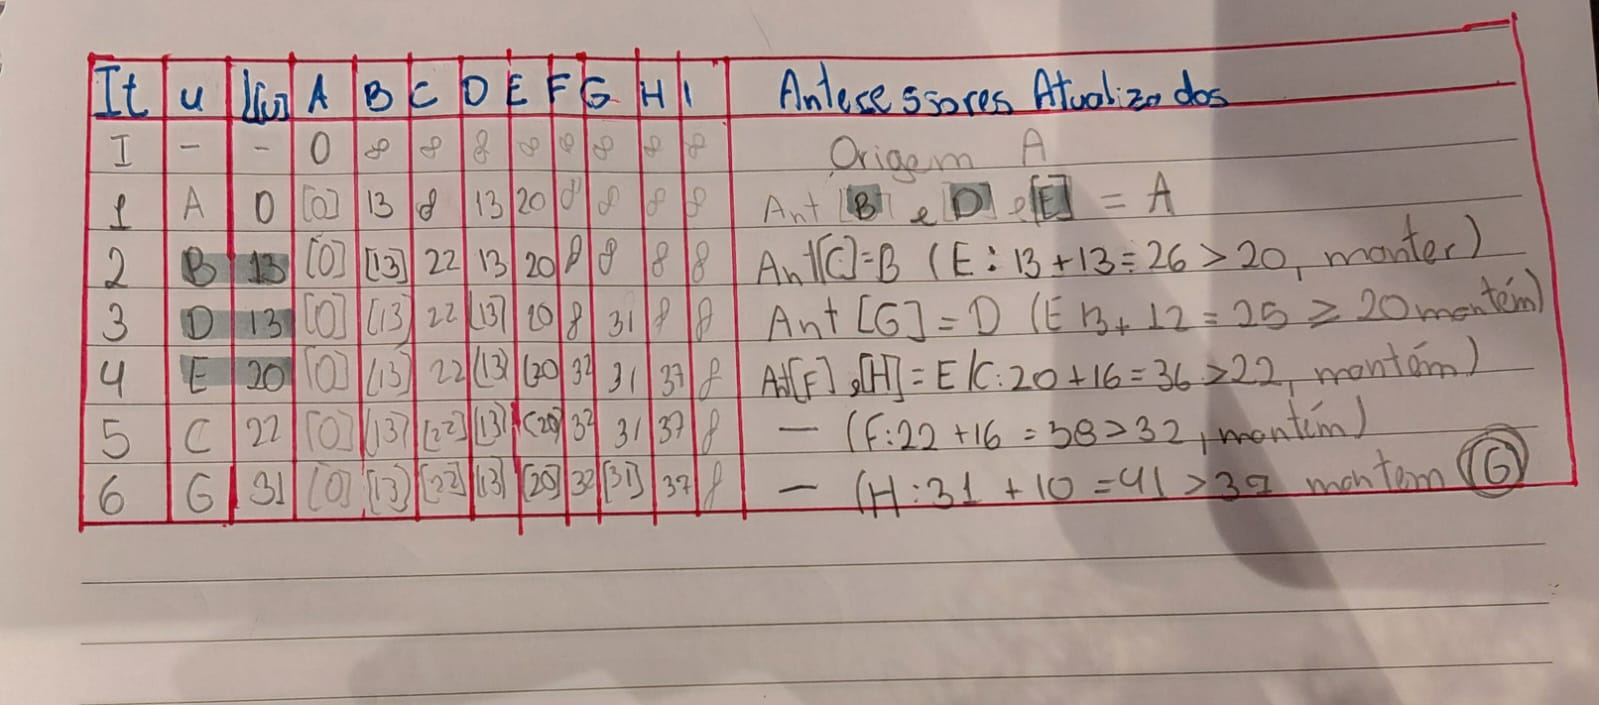
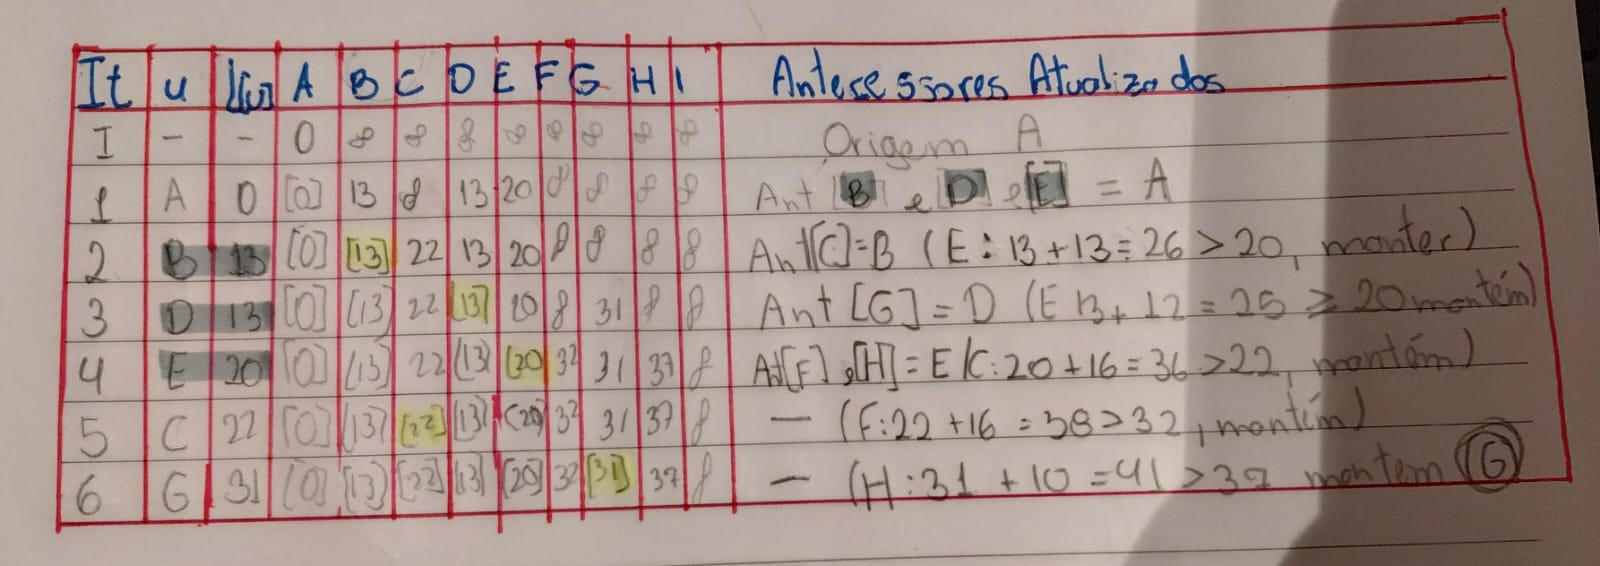
Adiciona a parte 2 completa

diff --git a/README.md b/README.md
@@ -38,7 +38,7 @@ de todos os vértices e os antecessores atualizados, até fechar o destino. Valo
 Realizado no papel:
 ![alt text](img/djkstra.png)
 
-Obs: na linha 2 também podeia ser D (invertido B com D) mas ia ficar muito fora da ordem alfabeticaimg/print_i.png
+Obs: na linha 2 também podeia ser D (invertido B com D) mas ia ficar muito fora da ordem alfabetica
 
 2) **Execução no simulador:** rode o Dijkstra passo a passo com origem A e o seu destino. Anexe dois prints: (i) o momento em que o terceiro vértice é fixado; (ii) o estado final, com a tabela “Estado dos vértices” e o caminho até o destino 
 
@@ -59,3 +59,30 @@ No final ambos ficam A -> D -> G
 
 
 3) *Registro das relaxações:* escolha a iteração k = (D4 mod 3) + 3. Para cada vizinho xaminado nessa iteração, escreva a conta dist[u] + W[u][v], compare com dist[v] e diga se houve relaxação ou se o valor foi mantido. Explique, com base na linha 6 do pseudocódigo do simulador, por que os vizinhos já fixos não são examinados. Se o destino for fechado antes da iteração k, continue a execução até ela. 
+
+* k = (D4mod3) + 3 = (2mod3) + 3 = 2 + 3 = **5**
+* Linha 5 é de C fechado em 22
+* C tem ligações com: B, E e F --> B e E já foram (13 e 20 vindos do A)
+* "dist[u] + W[u][v], compare com dist[v]" --> Tive que pesquisar o que era W pq não entendi, mas era a conta mesma da tabela :-|
+* F: dist[C] + W[C][F] = 22 + 16 = 38 que é o valor até agora do C mais o caminho de C a F
+* Ai pegamos o Caminho anterior que era A -20-> E -12-> F que deu 32 
+* Para chegar a F 38 > 32 ai mantem o 32 vindo de E e não de C pois fica menor o valor
+* Linha 6 do Pseudo Código: 
+
+`para cada v com W[u][v] ≠ NULO e não fixo:` --> para cada valor até agora do C mais o caminho de C a F não nulo e não fixo (verdadero) faça o seguinte:
+
+`se dist[u] + W[u][v] < dist[v]:     ▸ relaxa` --> Se os caminhs calculados até aqui são maiores que esse então relaxa o caminho antigo e guarda o novo
+
+Sempre guarda a menor soma
+
+
+
+4) **Confronto mesa × simulador:** compare a ordem de fechamento, os valores de L e os 
+antecessores. Se houver divergência, indique a iteração em que ela surgiu e a causa (erro de soma, desempate, relaxação esquecida ou relaxação indevida).
+
+Feito parte no caderno:
+![alt text](img/comparação.png)
+
+Acho que não houve erro, tem a diferença que eu não continuei até o final e parei no G (calculado o H mas não fechado) e I nem calculado foi.
+
+Não houve divergencia na ordem mas poderia na B para a C
